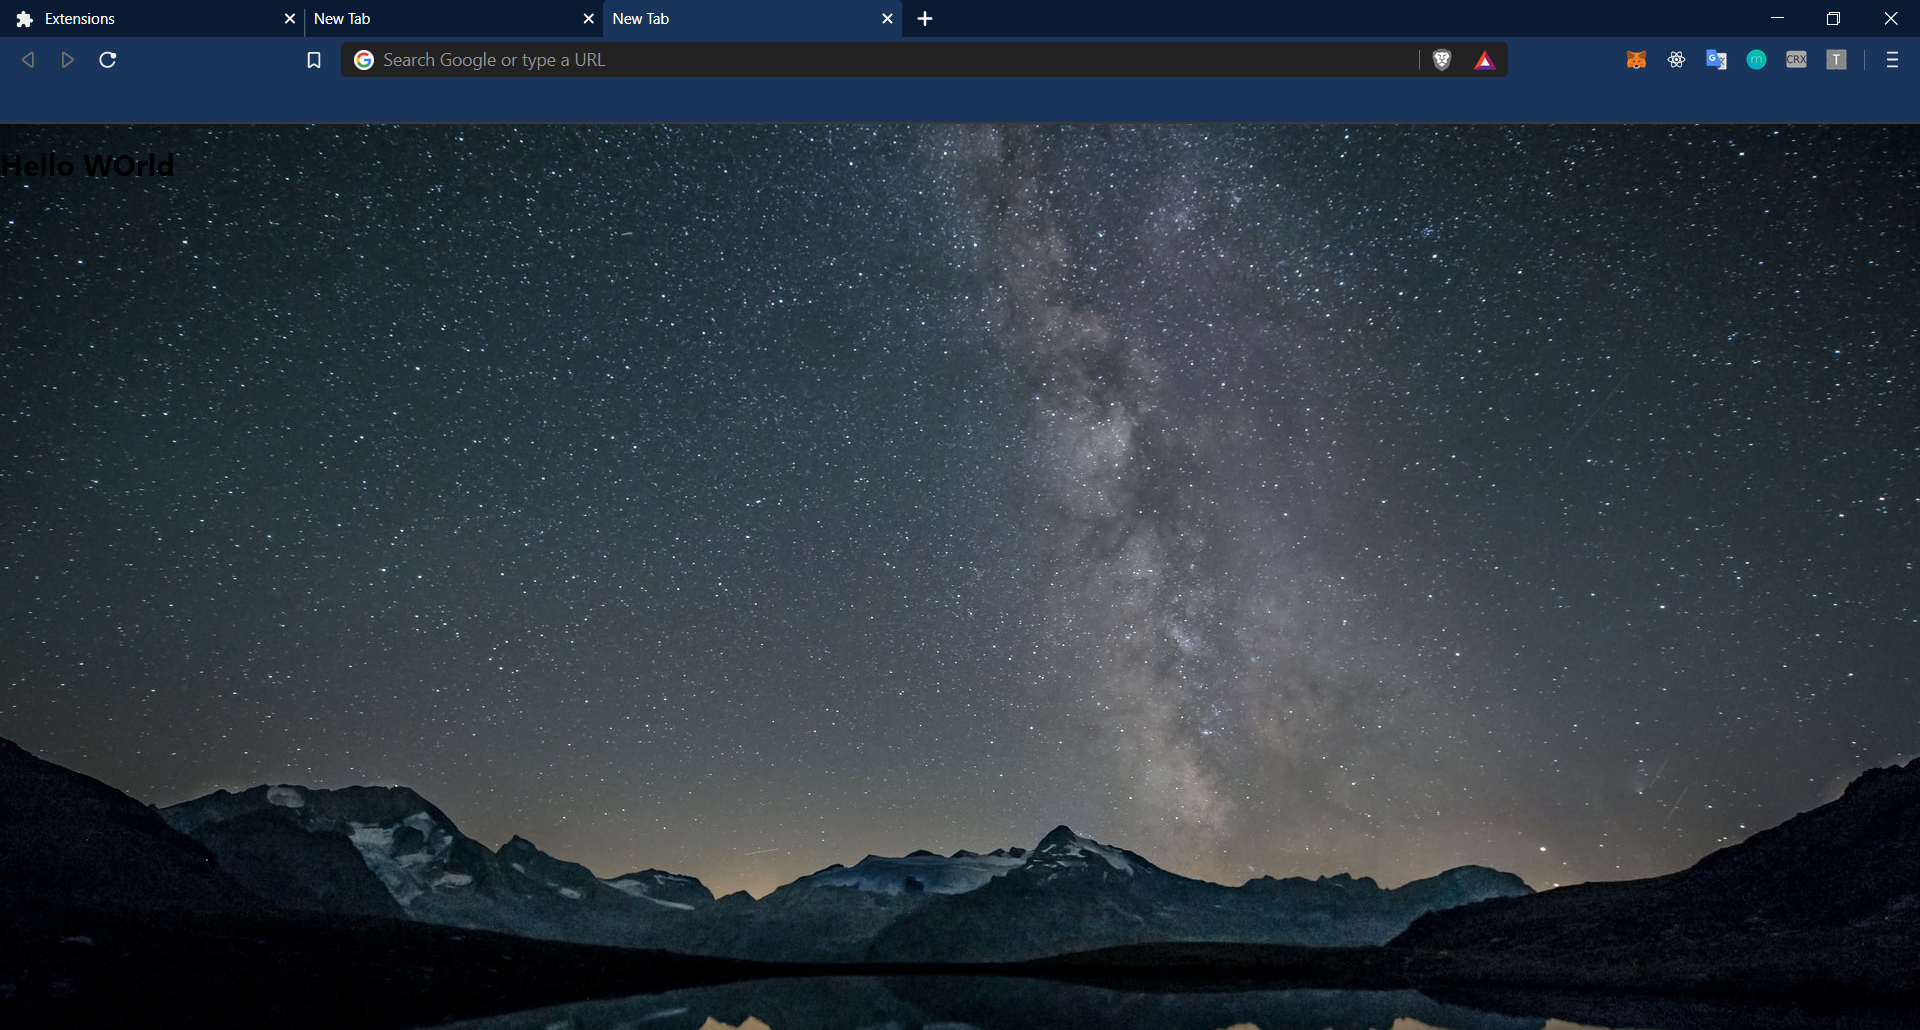
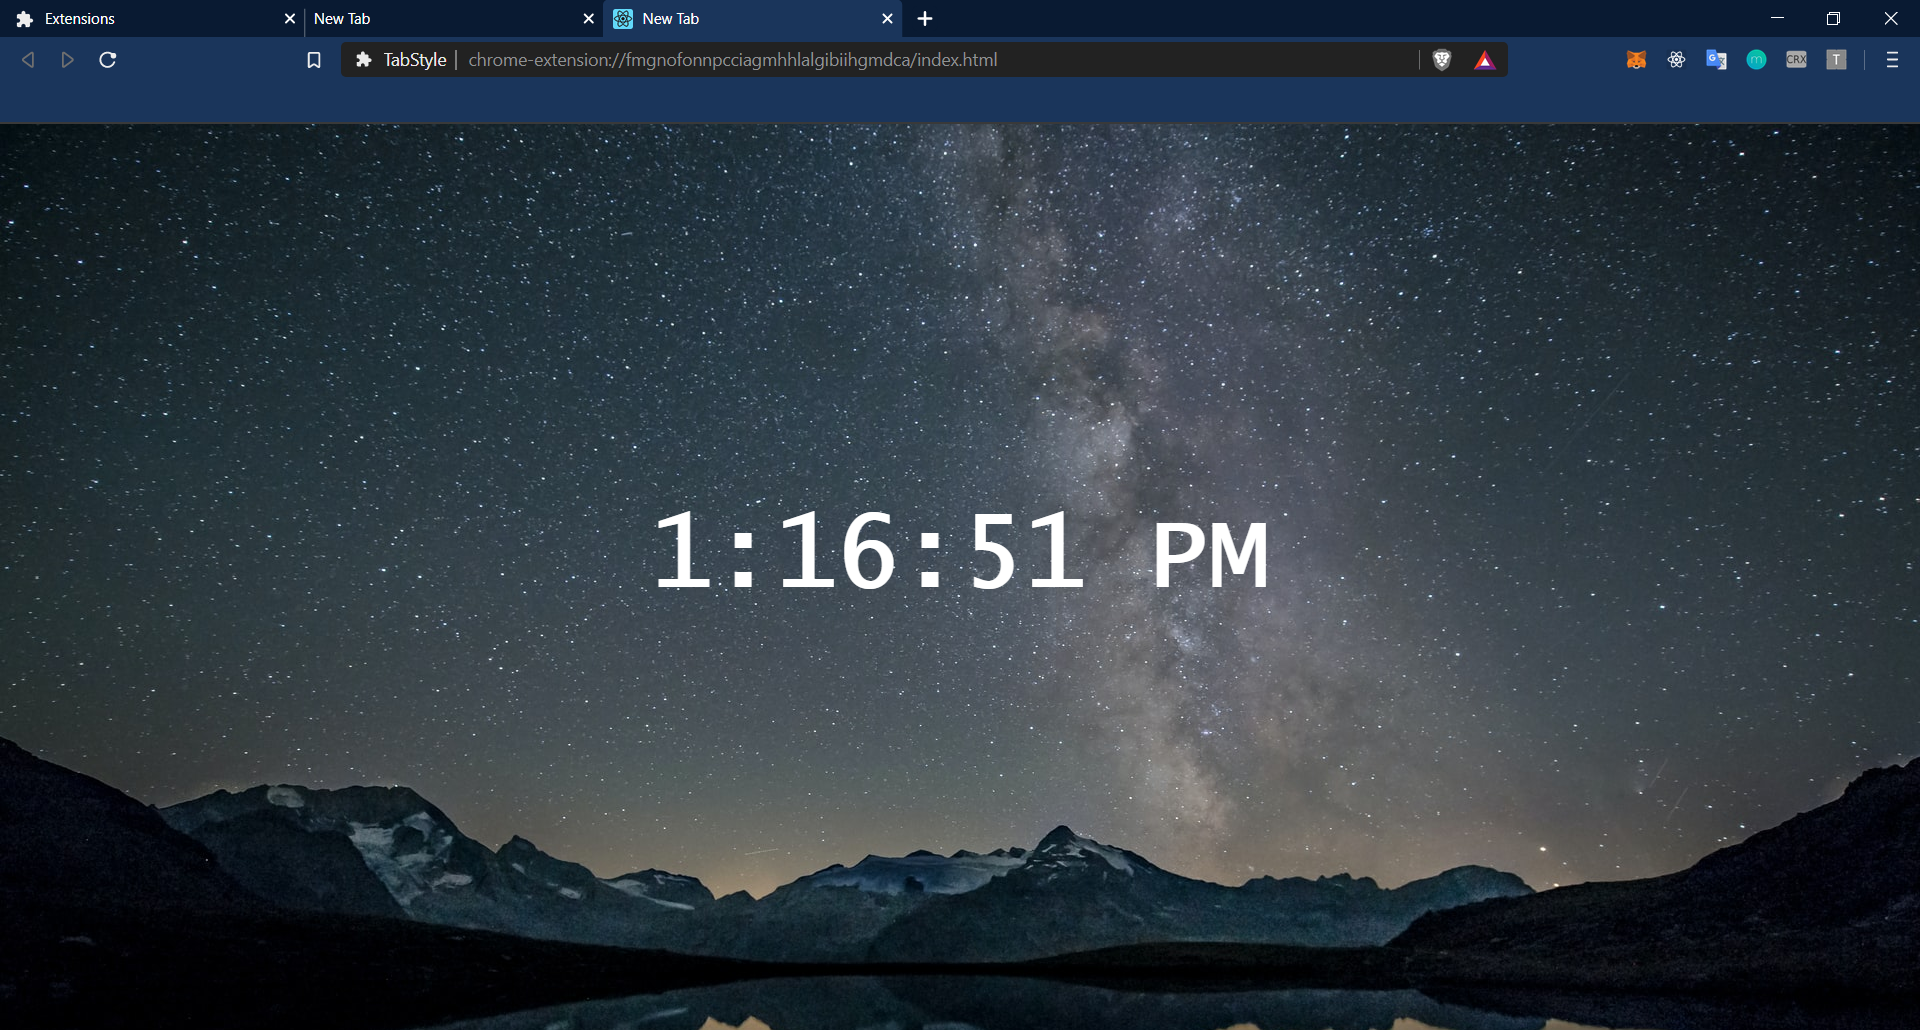
Fix css

diff --git a/src/App.css b/src/App.css
@@ -32,7 +32,18 @@
   from {
     transform: rotate(0deg);
   }
+
   to {
     transform: rotate(360deg);
   }
+}
+
+h1 {
+  font-size: 80px;
+  display: flex;
+  margin-top: 20%;
+  justify-content: center;
+  align-items: center;
+  color: white;
+  font-family: "Lucida Console", Courier, monospace;
 }

diff --git a/src/App.js b/src/App.js
@@ -31,7 +31,8 @@ class Clock extends Component {
   render() {
     return (
       <div>
-        <h1>{this.state.time.toLocaleTimeString()}.</h1>
+        <h1>{this.state.time.toLocaleTimeString()}</h1>
+        
       </div>
     );
   }
